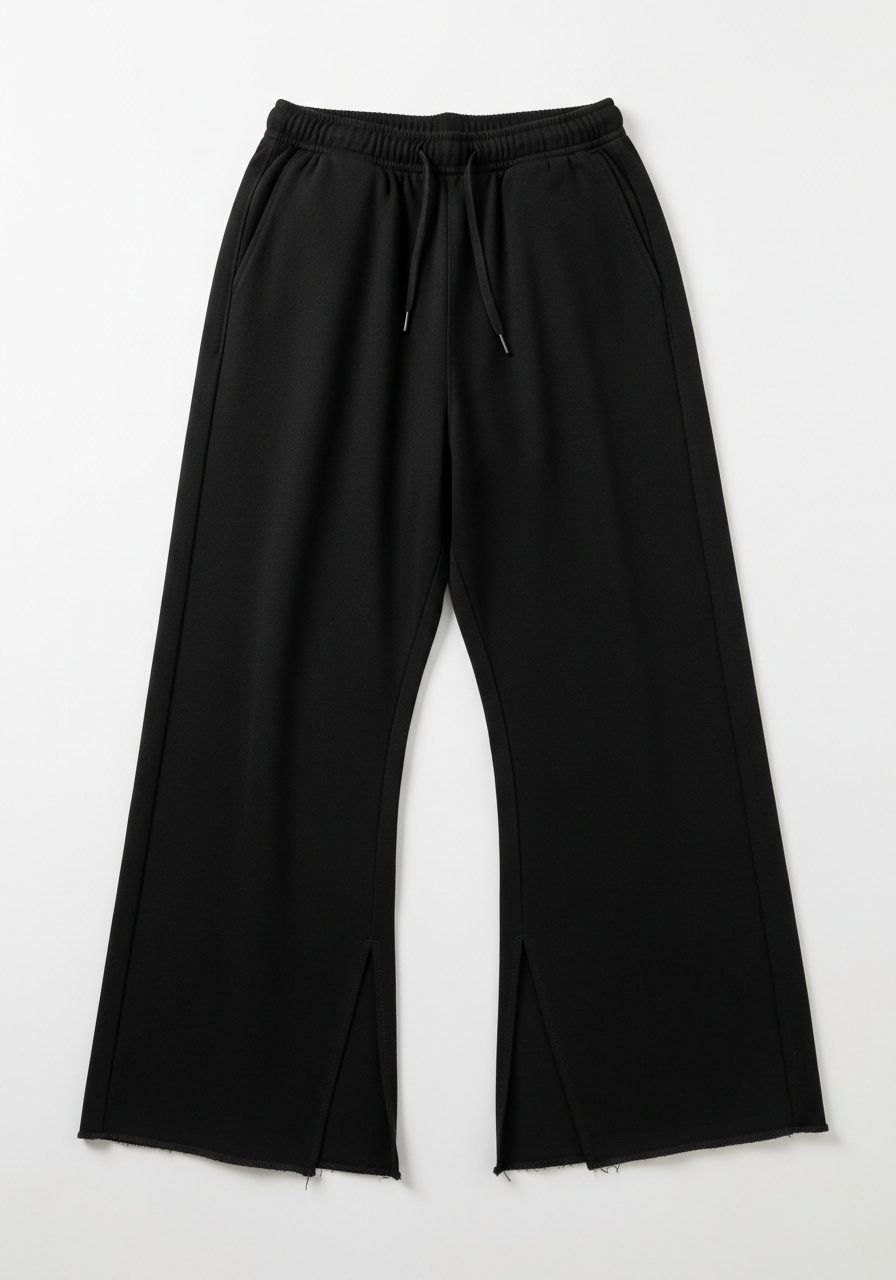
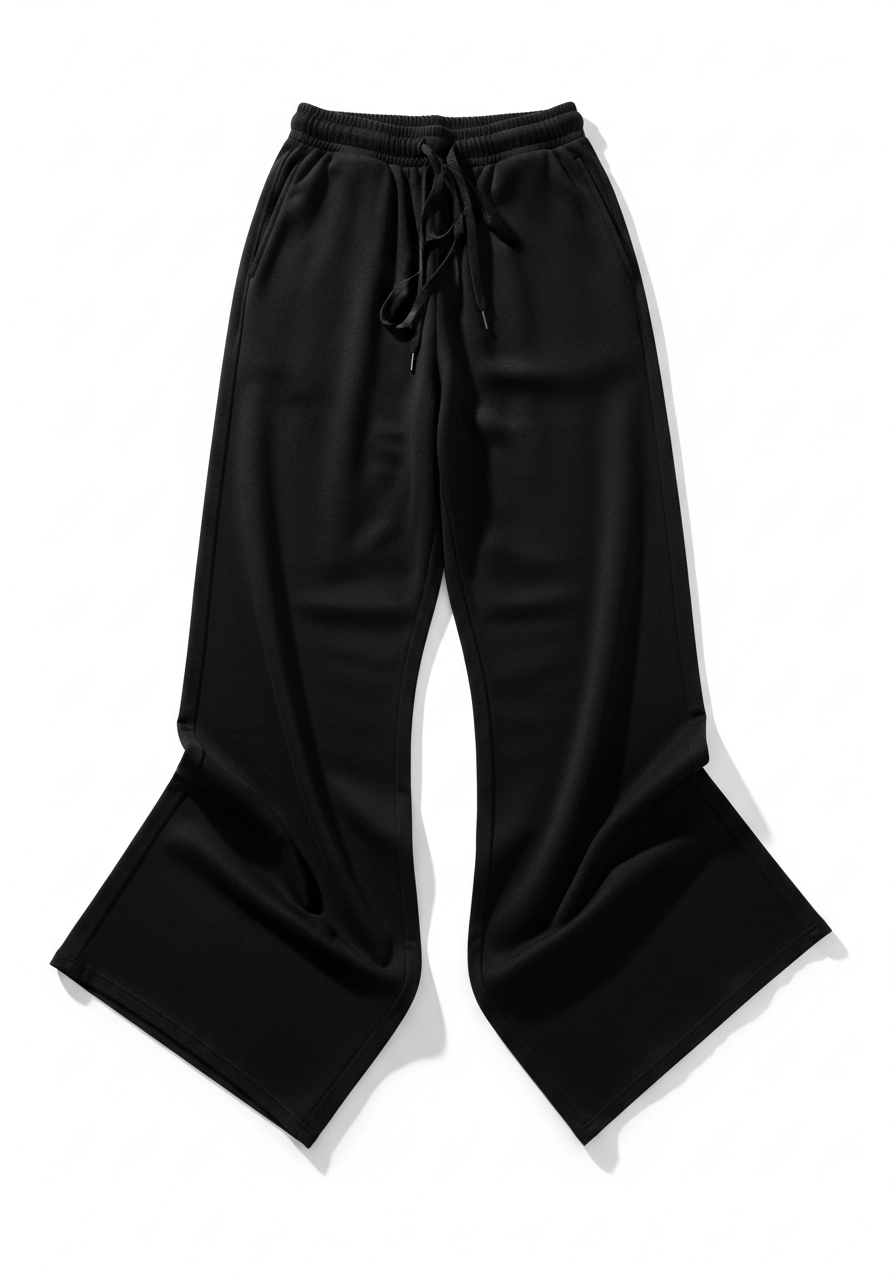
Update jogger images with connected legs and folded views
Regenerates flat lay images for black and grey joggers to show connected legs, and adds new folded images for all three jogger colors to their respective galleries in the products data.

Replit-Commit-Author: Agent
Replit-Commit-Session-Id: dd59577e-9698-42e8-98a3-77aae023b47a
Replit-Commit-Checkpoint-Type: full_checkpoint
Replit-Commit-Event-Id: 99828a91-4f88-476f-a715-abe603038e4f
Replit-Commit-Screenshot-Url: https://storage.googleapis.com/screenshot-production-us-central1/df1a481f-80c8-4d2f-a63b-0e981055b2bc/dd59577e-9698-42e8-98a3-77aae023b47a/OvS84Z2
Replit-Helium-Checkpoint-Created: true

Changed region(s): [[0.0, 0.0625, 1.0, 1.0], [0.375, 0.0625, 0.4062, 0.0938], [0.2812, 0.4062, 0.3125, 0.4375]]

diff --git a/artifacts/xf-store/src/data/products.ts b/artifacts/xf-store/src/data/products.ts
@@ -36,14 +36,17 @@ const baggyJoggerGallery = {
   black: [
     "/images/product-jogger-baggy-black.png",
     "/images/product-jogger-baggy-black-flat.png",
+    "/images/product-jogger-baggy-black-folded.png",
   ],
   grey: [
     "/images/product-jogger-baggy-grey.png",
     "/images/product-jogger-baggy-grey-flat.png",
+    "/images/product-jogger-baggy-grey-folded.png",
   ],
   white: [
     "/images/product-jogger-baggy-white.png",
     "/images/product-jogger-baggy-white-flat.png",
+    "/images/product-jogger-baggy-white-folded.png",
   ],
 };
 
